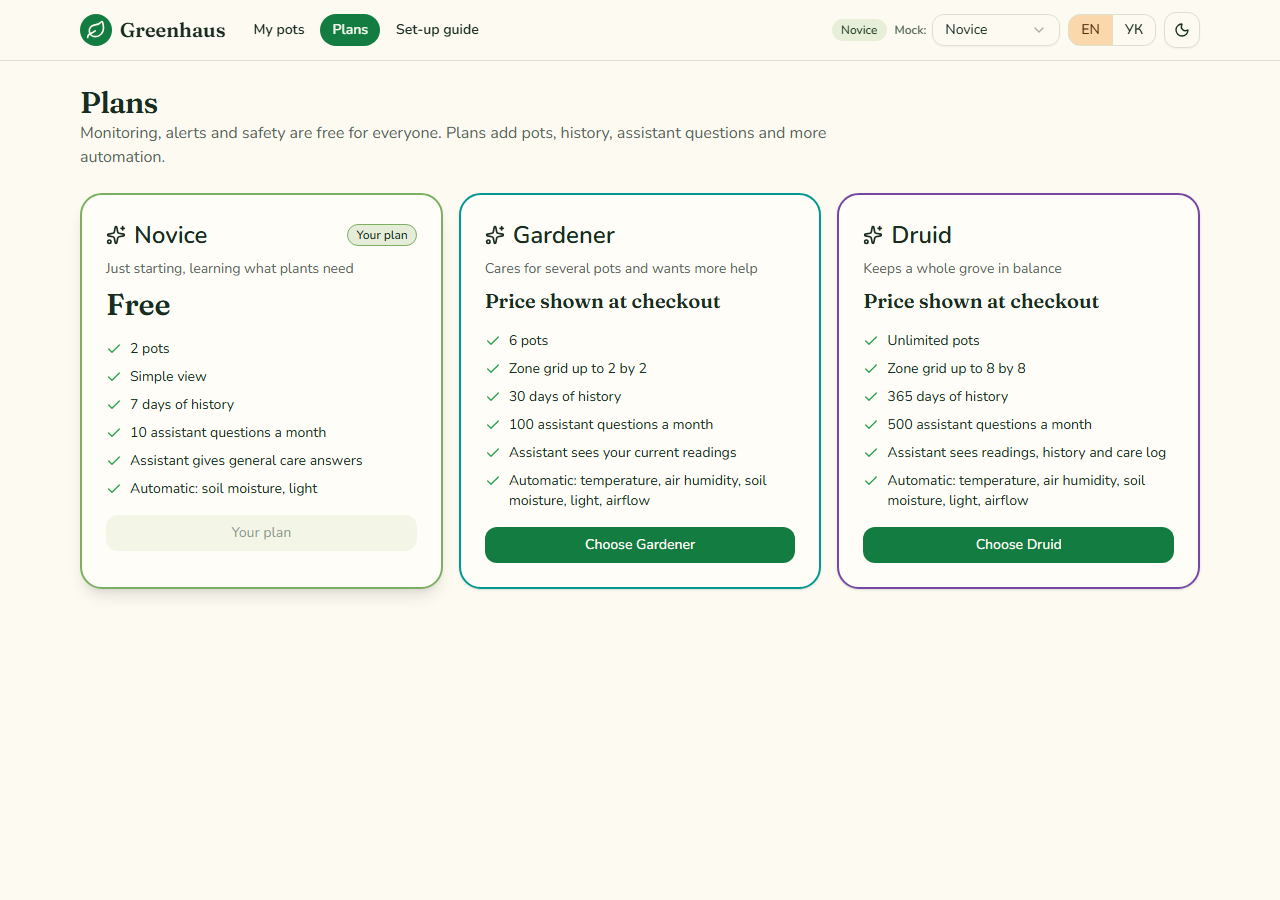
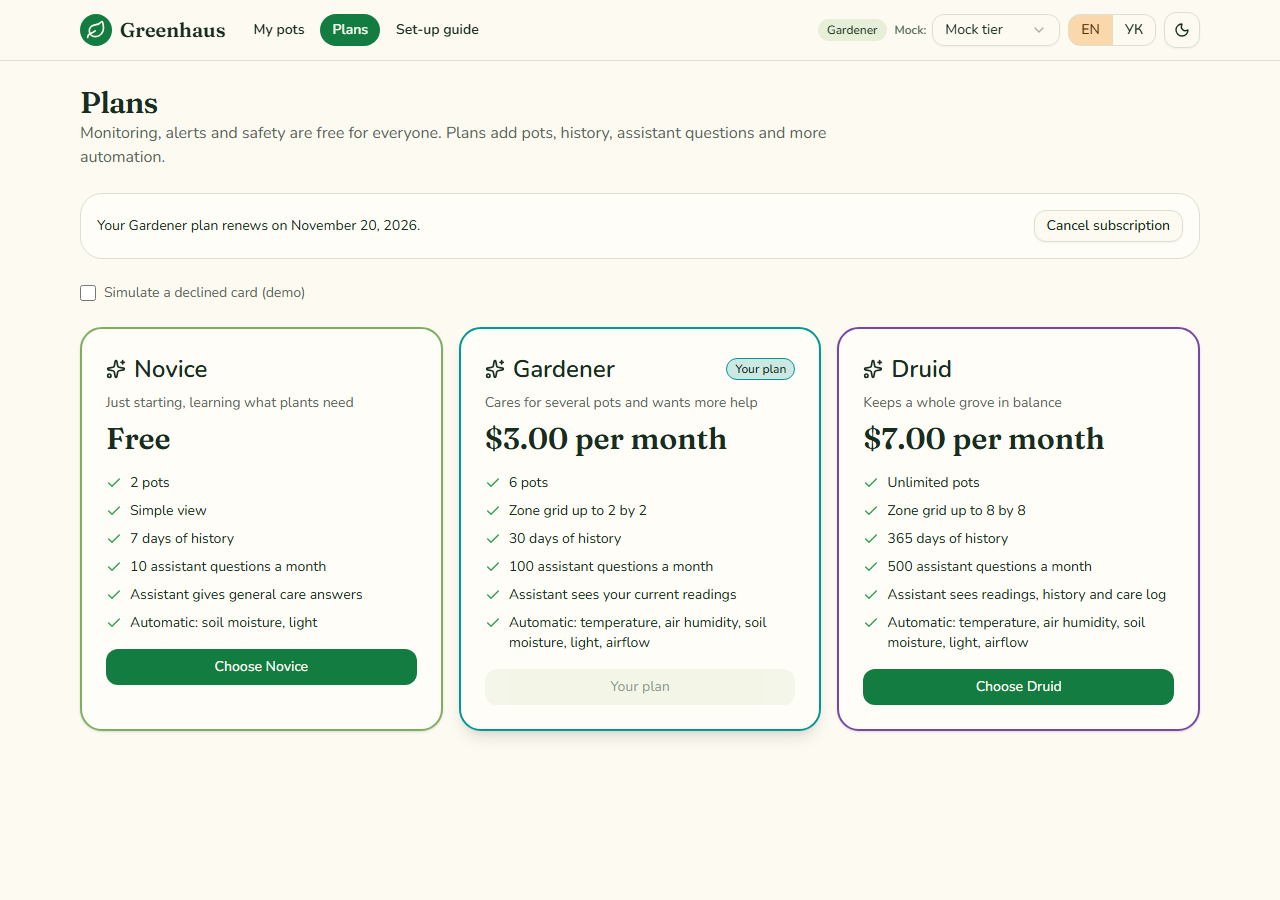
Check out plans against the billing mock
Choosing a paid tier subscribes, a demo switch simulates a declined card, the subscription can be cancelled or left by choosing the free tier, and prices come from billing. A price of zero reads Free. Ukrainian dates no longer end with a double full stop. 30 end-to-end tests.

diff --git a/apps/web/src/pages/plans-page.tsx b/apps/web/src/pages/plans-page.tsx
@@ -1,8 +1,9 @@
-import { TierCard, type Tier } from '@greenhaus/ui'
+import { Button, TierCard, type Tier } from '@greenhaus/ui'
 import { Info, TriangleAlert } from 'lucide-react'
 import { useState } from 'react'
 import { useTranslation } from 'react-i18next'
-import { useEntitlements, usePrices, useTiers } from '~/api/hooks'
+import { useCancelSubscription, useEntitlements, usePrices, useSubscribe, useSubscription, useTiers } from '~/api/hooks'
+import { ApiError } from '~/api/http'
 import { CardGridSkeleton, LoadError } from '~/components/feedback'
 
 export function PlansPage() {
@@ -10,9 +11,32 @@ export function PlansPage() {
   const tiers = useTiers()
   const entitlements = useEntitlements()
   const prices = usePrices()
-  const [notice, setNotice] = useState(false)
+  const subscription = useSubscription()
+  const subscribe = useSubscribe()
+  const cancel = useCancelSubscription()
+  const [notice, setNotice] = useState<string | null>(null)
+  const [declineCard, setDeclineCard] = useState(false)
   const date = new Intl.DateTimeFormat(i18n.language, { dateStyle: 'long' })
   const atRisk = entitlements.data?.sources.find((source) => source.status === 'at_risk')
+  const paid = subscription.data && subscription.data.status !== 'cancelled' ? subscription.data : null
+  const billingDown = prices.isError
+
+  const choose = (tier: Tier) => {
+    setNotice(null)
+    // The free tier is not bought: choosing it ends the paid plan at the end of the period.
+    if (tier === 'novice') {
+      cancel.mutate()
+      return
+    }
+    subscribe.mutate(
+      // The demo billing service declines a card whose token ends in "-declined".
+      { tier, paymentMethodToken: declineCard ? 'tok-declined' : 'tok-demo' },
+      {
+        onSuccess: () => setNotice(t('plans.subscribed', { tier: t(`tier.name.${tier}`) })),
+        onError: (error) => setNotice(error instanceof ApiError && error.status === 402 ? t('plans.declined') : t('app.errors.unknown')),
+      },
+    )
+  }
 
   return (
     <div className="space-y-6">
@@ -34,8 +58,36 @@ export function PlansPage() {
       {notice && (
         <p role="status" className="flex items-center gap-2 rounded-xl border bg-secondary p-3 text-sm font-semibold">
           <Info className="size-4" aria-hidden />
-          {t('plans.comingSoon')}
+          {notice}
         </p>
+      )}
+
+      {billingDown && (
+        <p role="note" className="text-sm text-muted-foreground">
+          {t('plans.billingDown')}
+        </p>
+      )}
+
+      {paid && (
+        <div className="flex flex-wrap items-center justify-between gap-3 rounded-xl border bg-card p-4">
+          <p className="text-sm">
+            {paid.cancelAtPeriodEnd
+              ? t('plans.endsOn', { tier: t(`tier.name.${paid.tier}`), date: date.format(new Date(paid.currentPeriodEnd)) })
+              : t('plans.activeUntil', { tier: t(`tier.name.${paid.tier}`), date: date.format(new Date(paid.currentPeriodEnd)) })}
+          </p>
+          {!paid.cancelAtPeriodEnd && (
+            <Button variant="outline" size="sm" disabled={cancel.isPending} onClick={() => cancel.mutate()}>
+              {t('plans.cancel')}
+            </Button>
+          )}
+        </div>
+      )}
+
+      {import.meta.env.VITE_MOCK !== 'false' && !billingDown && (
+        <label className="flex items-center gap-2 text-sm text-muted-foreground">
+          <input type="checkbox" checked={declineCard} onChange={(event) => setDeclineCard(event.target.checked)} className="size-4 accent-primary" />
+          {t('plans.simulateDecline')}
+        </label>
       )}
 
       {(tiers.isError || entitlements.isError) && <LoadError onRetry={() => void tiers.refetch()} />}
@@ -49,7 +101,7 @@ export function PlansPage() {
                 limits={limits}
                 current={entitlements.data.tier === tier}
                 price={prices.data?.find((plan) => plan.tier === tier)?.pricePerMonth}
-                onChoose={(_chosen: Tier) => setNotice(true)}
+                onChoose={choose}
                 className="h-full"
               />
             </li>

diff --git a/apps/web/e2e/app.spec.ts b/apps/web/e2e/app.spec.ts
@@ -127,8 +127,10 @@ test.describe('plans and claiming', () => {
     await page.goto('/plans')
     for (const name of ['Novice', 'Gardener', 'Druid']) await expect(page.getByText(name, { exact: true }).first()).toBeVisible()
     await expect(page.getByRole('button', { name: 'Your plan' })).toBeDisabled()
-    // The billing service is not part of this run, so paid tiers show no price but are never labelled Free.
+    // Prices come from the billing mock, and only the free tier says Free.
     await expect(page.getByText('Free', { exact: true })).toHaveCount(1)
+    await expect(page.getByText(/\$3\.00 per month/)).toBeVisible()
+    await expect(page.getByText(/\$7\.00 per month/)).toBeVisible()
   })
 
   test('a purchase grant at risk is explained', async ({ page }) => {
@@ -162,6 +164,35 @@ test.describe('plans and claiming', () => {
   })
 })
 
+test.describe('checkout', () => {
+  test('choosing Druid subscribes and the plan changes everywhere', async ({ page }) => {
+    await page.goto('/plans')
+    await page.getByRole('button', { name: 'Choose Druid' }).click()
+    await expect(page.getByRole('status')).toContainText('You are now on Druid')
+    await expect(page.getByRole('button', { name: 'Your plan' })).toBeVisible()
+    await expect(page.locator('header').getByText('Druid', { exact: true }).first()).toBeVisible()
+  })
+
+  test('a declined card leaves the plan unchanged', async ({ page }) => {
+    await page.goto('/plans')
+    await page.getByLabel('Simulate a declined card (demo)').check()
+    await page.getByRole('button', { name: 'Choose Druid' }).click()
+    await expect(page.getByRole('status')).toContainText('The card was declined')
+    await expect(page.getByRole('button', { name: 'Choose Druid' })).toBeVisible()
+  })
+
+  test('choosing the free tier ends the paid plan at the end of the period', async ({ page }) => {
+    await page.goto('/plans')
+    await page.getByRole('button', { name: 'Choose Novice' }).click()
+    await expect(page.getByText(/Your Gardener plan ends on/)).toBeVisible()
+  })
+  test('cancelling keeps the plan until the period ends and says when', async ({ page }) => {
+    await page.goto('/plans')
+    await page.getByRole('button', { name: 'Cancel subscription' }).click()
+    await expect(page.getByText(/Your Gardener plan ends on/)).toBeVisible()
+    await expect(page.getByRole('button', { name: 'Cancel subscription' })).toHaveCount(0)
+  })
+})
 test.describe('language', () => {
   test('switches to Ukrainian, including the default zone names', async ({ page }) => {
     await page.goto('/')

diff --git a/apps/web/src/api/hooks.ts b/apps/web/src/api/hooks.ts
@@ -1,6 +1,6 @@
 import type { ControlMode, Schemas } from '@greenhaus/ui'
 import { useMutation, useQuery, useQueryClient } from '@tanstack/react-query'
-import { api, billingBase, mockTier } from './http'
+import { ApiError, api, billingBase, mockTier } from './http'
 
 type S = Schemas
 
@@ -33,6 +33,23 @@ export function useClaimPreview(deviceId: string | null, token: string | null) {
     retry: false,
   })
 }
+
+type Subscription = { id: string; tier: S['Tier']; status: 'active' | 'past_due' | 'cancelled'; currentPeriodEnd: string; cancelAtPeriodEnd?: boolean }
+
+/** The paid subscription, or null when there is none. Billing answers 404 for no subscription. */
+export const useSubscription = () =>
+  useQuery({
+    queryKey: ['billing', 'subscription'],
+    queryFn: async () => {
+      try {
+        return await api<Subscription>('/subscription', { base: billingBase })
+      } catch (error) {
+        if (error instanceof ApiError && error.status === 404) return null
+        throw error
+      }
+    },
+    retry: false,
+  })
 
 /** Prices come from the billing service. If it is not running the plans page simply shows no prices. */
 export const usePrices = () =>
@@ -118,5 +135,27 @@ export function useClaim() {
   return useMutation({
     mutationFn: (body: { deviceId: string; token: string; potId: string }) => api<S['Claim']>('/claims', { method: 'POST', json: body }),
     onSuccess: (_claim, vars) => Promise.all([invalidate('devices', vars.potId), invalidate('pots'), invalidate('status', vars.potId)]),
+  })
+}
+
+function useBillingRefresh() {
+  const client = useQueryClient()
+  return () => Promise.all([client.invalidateQueries({ queryKey: ['billing'] }), client.invalidateQueries({ queryKey: key('entitlements') })])
+}
+
+export function useSubscribe() {
+  const refresh = useBillingRefresh()
+  return useMutation({
+    mutationFn: (v: { tier: S['Tier']; paymentMethodToken: string }) =>
+      api<Subscription>('/subscription', { method: 'POST', json: v, base: billingBase }),
+    onSuccess: refresh,
+  })
+}
+
+export function useCancelSubscription() {
+  const refresh = useBillingRefresh()
+  return useMutation({
+    mutationFn: () => api<Subscription>('/subscription/cancel', { method: 'POST', base: billingBase }),
+    onSuccess: refresh,
   })
 }

diff --git a/packages/ui/src/components/greenhaus/tier-card.tsx b/packages/ui/src/components/greenhaus/tier-card.tsx
@@ -38,11 +38,12 @@ export function TierCard({ tier, limits, price, current, onChoose, className }: 
     t(`tier.ai.${limits.aiDataAccess}`),
     t('tier.automation', { metrics: autoMetrics }),
   ]
-  const priceText = price
+  const isFree = price ? price.amount === 0 : tier === 'novice'
+  const priceText = price && price.amount > 0
     ? t('tier.perMonth', {
         price: new Intl.NumberFormat(i18n.language, { style: 'currency', currency: price.currency }).format(price.amount),
       })
-    : tier === 'novice'
+    : isFree
       ? t('tier.free')
       : t('tier.priceUnknown')
 
@@ -57,7 +58,7 @@ export function TierCard({ tier, limits, price, current, onChoose, className }: 
           {current && <Badge className={tierLook[tier].badge}>{t('tier.current')}</Badge>}
         </div>
         <p className="text-sm text-muted-foreground">{t(`tier.tagline.${tier}`)}</p>
-        <p className={cn('font-display font-semibold', price || tier === 'novice' ? 'text-3xl' : 'text-xl')}>{priceText}</p>
+        <p className={cn('font-display font-semibold', price?.amount || isFree ? 'text-3xl' : 'text-xl')}>{priceText}</p>
       </CardHeader>
       <CardContent>
         <ul className="space-y-2 text-sm">

diff --git a/apps/web/e2e/screenshots.spec.ts b/apps/web/e2e/screenshots.spec.ts
@@ -11,11 +11,13 @@ const looks = [
   { name: 'dark-uk', locale: 'uk', dark: true },
 ]
 
-async function open(page: Page, url: string, look: (typeof looks)[number], tier = 'gardener') {
+// A null tier lets billing decide, which is what a real user sees.
+async function open(page: Page, url: string, look: (typeof looks)[number], tier: string | null = 'gardener') {
   await page.addInitScript(
     ([locale, mockTier]) => {
       localStorage.setItem('locale', locale)
-      localStorage.setItem('mockTier', mockTier)
+      if (mockTier) localStorage.setItem('mockTier', mockTier)
+      else localStorage.removeItem('mockTier')
     },
     [look.locale, tier],
   )
@@ -60,7 +62,7 @@ for (const look of looks) {
 
   test(`plans ${look.name}`, async ({ page }) => {
     await page.setViewportSize({ width: 1280, height: 900 })
-    await open(page, '/plans', look, 'novice')
+    await open(page, '/plans', look, null)
     await page.screenshot({ path: path.join(out, `plans-${look.name}.png`), fullPage: true })
   })
 

diff --git a/packages/ui/src/components/greenhaus/tier-card.stories.tsx b/packages/ui/src/components/greenhaus/tier-card.stories.tsx
@@ -55,3 +55,13 @@ export const PriceUnknown: Story = {
     await expect(canvas.queryByText('Free')).toBeNull()
   },
 }
+
+/** Billing lists the free tier with a price of zero. It still reads "Free", never "$0.00 per month". */
+export const FreeWithZeroPrice: Story = {
+  args: { price: { amount: 0, currency: 'USD' } },
+  play: async ({ canvasElement }) => {
+    const canvas = within(canvasElement)
+    await expect(canvas.getByText('Free')).toBeVisible()
+    await expect(canvas.queryByText(/per month/)).toBeNull()
+  },
+}

diff --git a/apps/web/README.md b/apps/web/README.md
@@ -17,7 +17,7 @@ A small "Mock" selector in the header lets you act as the Novice, Gardener or Dr
 | Setting | Default | Meaning |
 | --- | --- | --- |
 | `VITE_API_BASE` | `http://localhost:8090/api/greenhaus/v1` | The Greenhaus API |
-| `VITE_BILLING_BASE` | `http://localhost:8090/api/billing/v1` | The billing API, only used for prices |
+| `VITE_BILLING_BASE` | `http://localhost:8090/api/billing/v1` | The billing API: prices, subscribing and cancelling |
 | `VITE_SHOP_URL` | `http://localhost:5173` | The marketplace (Orderflow), for "Open the shop" |
 
 ## Pages
@@ -27,7 +27,7 @@ A small "Mock" selector in the header lets you act as the Novice, Gardener or Dr
 | My pots | Every pot as a card. A pot in the zones view names its worst zone. Adding a pot past the plan limit opens an upsell with the tier that unlocks it |
 | A pot | Tabs for the overview (live readings, or the zone map), plants (with a conflict warning when plants disagree), requirements, controls, care tasks and linked controllers |
 | Controls | Mode per actuator, manual run, safety limits, a kill switch and the audit log of what the automation did. Refusals such as a missing thermal cutoff or calibration are explained |
-| Plans | The three tiers with their limits from the API, the current one marked, and a banner when a purchase grant is at risk |
+| Plans | The three tiers with their limits and prices, the current one marked. Choosing a plan subscribes through the billing mock (a demo switch simulates a declined card), the subscription can be cancelled, and a banner explains a purchase grant that is at risk |
 | Claim | The page the QR code opens: shows the device, asks for a pot and links it. Unshipped, expired, wrong and already-claimed codes get a clear explanation |
 | Set-up guide | The ready kit, a build-it-yourself parts list, the QR steps and the safety advice about overflow, siphoning and heaters |
 
@@ -40,7 +40,7 @@ docker compose up -d mock
 npm run e2e -w @greenhaus/web
 ```
 
-26 Playwright tests drive the real app against the mock: the overview, the zones view and metric switch, plan limits and the upsell, the heater guard and the kill switch, plants and care, plans, the whole QR claim flow, the language switch, and an **axe accessibility scan of every page in light English and dark Ukrainian**. The mock is reset before each test.
+30 Playwright tests drive the real app against the mock: the overview, the zones view and metric switch, plan limits and the upsell, the heater guard and the kill switch, plants and care, plans, the whole QR claim flow, the language switch, and an **axe accessibility scan of every page in light English and dark Ukrainian**. The mock is reset before each test.
 
 Screenshots for the READMEs are produced by `SCREENSHOTS=1 npx playwright test screenshots`.
 
@@ -48,5 +48,4 @@ Screenshots for the READMEs are produced by `SCREENSHOTS=1 npx playwright test s
 
 - No real sign-in yet. The mock does not check tokens, and Keycloak arrives with the real Greenhaus API.
 - Requirements are shown but cannot be edited yet. The editor component is not built.
-- Choosing a plan does not check out. It needs the billing mock, which is not built yet, so prices are blank and paid tiers say the price is shown at checkout.
 - Live updates poll every ten seconds. SignalR from Pulse comes with the real device platform.

diff --git a/README.md b/README.md
@@ -66,7 +66,7 @@ React app for pots, plants, controls, plans and the QR claim flow, in English an
 npm install                    # installs the web workspace
 docker compose up -d mock      # the mock backend on :8090
 npm run dev -w @greenhaus/web  # http://localhost:5174
-npm run e2e -w @greenhaus/web  # 26 end-to-end tests with an accessibility scan of every page
+npm run e2e -w @greenhaus/web  # 30 end-to-end tests with an accessibility scan of every page
 ```
 
 See [apps/web](apps/web/README.md) and [ADR 0002](docs/adr/0002-web-workspace-and-design-system-from-source.md).
